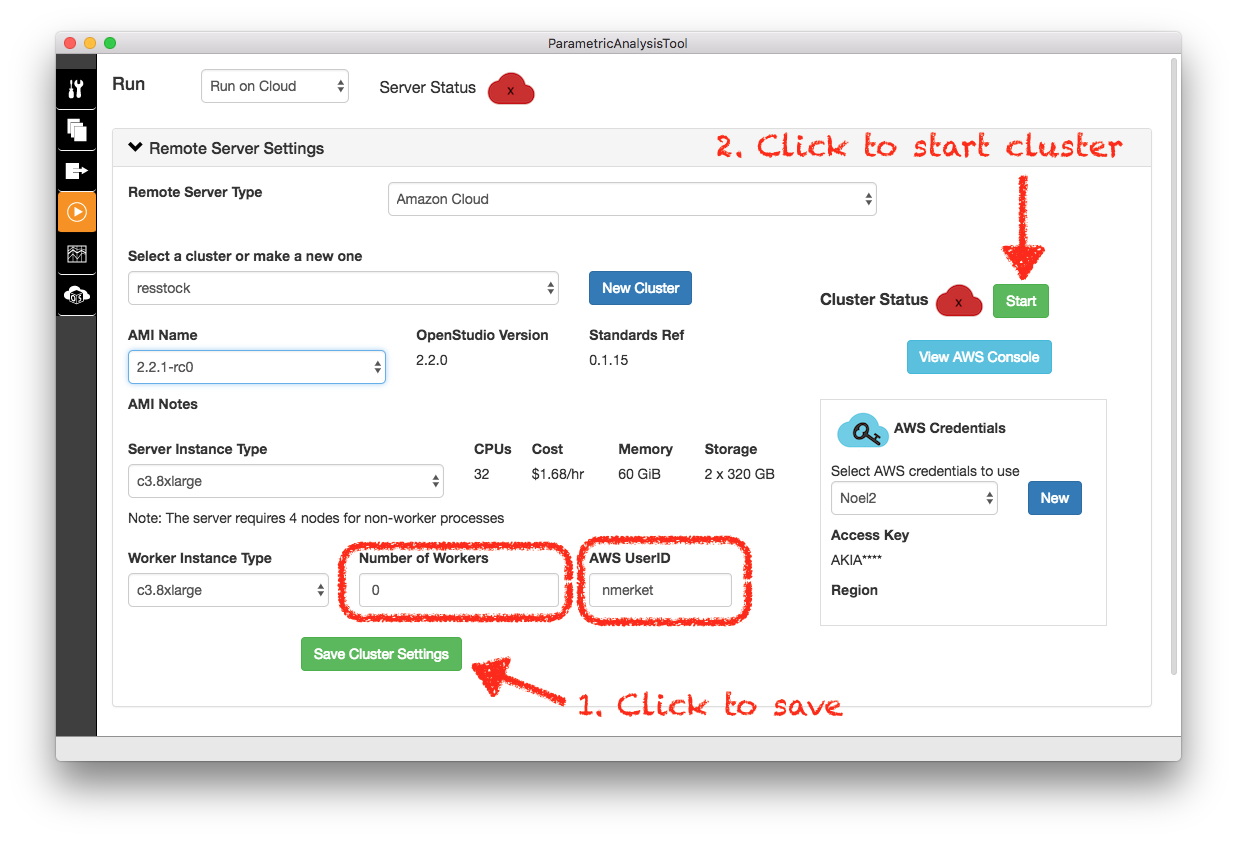
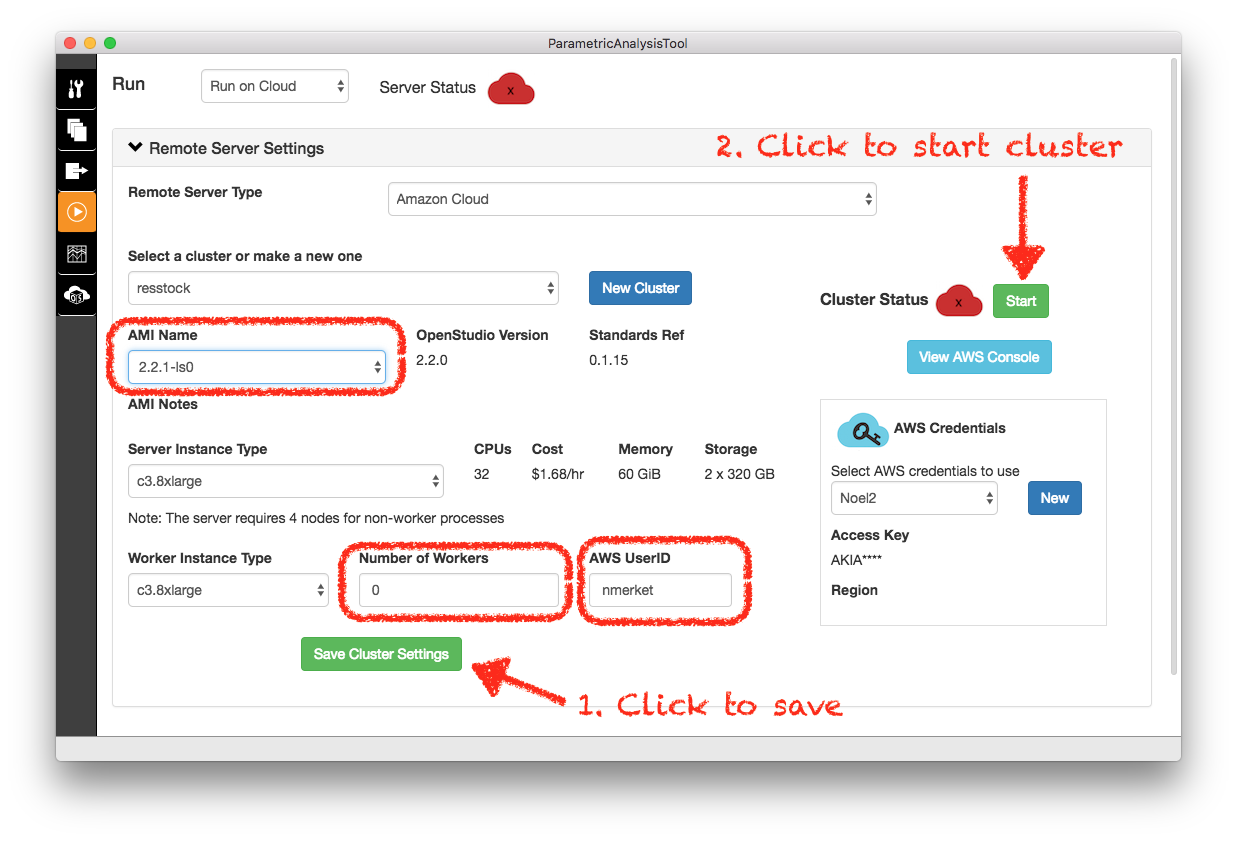
updating tutuorial and screenshots to use 2.2.1-ls0 AMI

Changed region(s): [[0.0614, 0.4019, 0.3072, 0.4946], [0.0922, 0.371, 0.3379, 0.4637]]

diff --git a/docs/source/tutorial/run_project.rst b/docs/source/tutorial/run_project.rst
@@ -14,7 +14,7 @@ First, you will need some AWS credentials to allow PAT to start compute instance
 Cluster Settings and Starting the Cluster
 -----------------------------------------
 
-We will leave most of the defaults, but because we're doing a small analysis here, we're going to set the number of worker nodes to zero. For guidance on cluster settings for your analysis including instance selection and worker nodes see :doc:`../aws_cluster_config`.
+Select the ``2.2.1-ls0`` AMI. We will leave most of the rest of the defaults, but because we're doing a small analysis here, we're going to set the number of worker nodes to zero. For guidance on cluster settings for your analysis including instance selection and worker nodes see :doc:`../aws_cluster_config`.
 
 .. image:: ../images/tutorial/run_on_cloud.png
 
